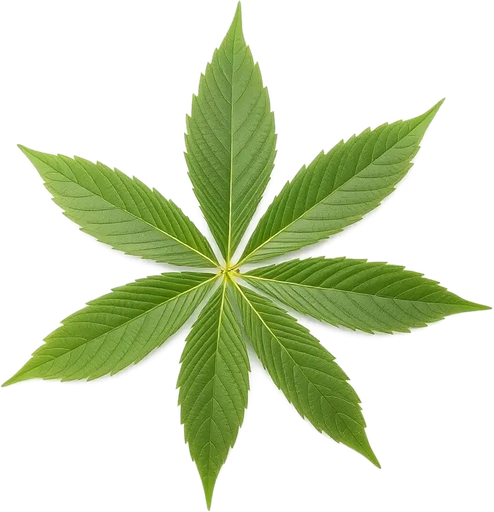
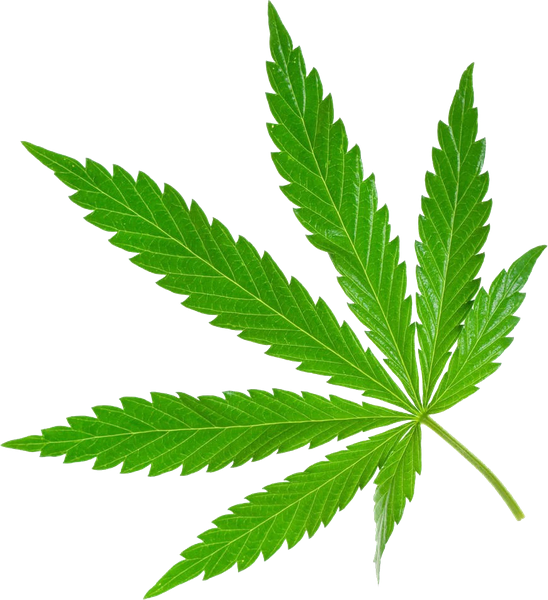
Adesivos novos: baseado, folha e kush enviados pelo Fred
O baseado agora é a foto (com brilho na brasa) em vez do desenho;
a flor gerada por IA foi trocada pela kush.

diff --git a/index.html b/index.html
@@ -290,7 +290,9 @@
     let activeTab = 'fx';
 
     /* ---------- Adesivos (gerados por IA, fundo transparente) ---------- */
-    const STICKERS = ['folha', 'flor'];
+    const STICKERS = ['folha', 'kush', 'baseado'];
+    // Pontas do baseado.png (fração da largura/altura): piteira em cima à esquerda, brasa embaixo à direita
+    const JOINT_FILTER = { x: 0.013, y: 0.013 }, JOINT_EMBER = { x: 0.977, y: 0.893 };
     const sticker = {};
     const stickersReady = Promise.all(STICKERS.map(n => new Promise(res => {
         const im = new Image();
@@ -440,6 +442,33 @@
 
     // Baseado desenhado no canvas: piteira na boca (x, y), cone de papel e brasa na ponta
     function drawJoint(ctx, x, y, len, angle) {
+        const im = sticker.baseado;
+        if (im) {
+            // Gira e escala a foto do baseado para a piteira cair em (x, y) e a brasa na direção do ângulo
+            const ax = JOINT_FILTER.x * im.width, ay = JOINT_FILTER.y * im.height;
+            const bx = JOINT_EMBER.x * im.width, by = JOINT_EMBER.y * im.height;
+            const k = len / Math.hypot(bx - ax, by - ay);
+            ctx.save();
+            ctx.translate(x, y);
+            ctx.rotate(angle - Math.atan2(by - ay, bx - ax));
+            ctx.scale(k, k);
+            ctx.shadowColor = 'rgba(0,0,0,0.35)';
+            ctx.shadowBlur = 12 / k;
+            ctx.drawImage(im, -ax, -ay);
+            ctx.restore();
+            // brilho da brasa
+            const tx = x + Math.cos(angle) * len, ty = y + Math.sin(angle) * len;
+            ctx.save();
+            ctx.globalCompositeOperation = 'lighter';
+            const g = ctx.createRadialGradient(tx, ty, 0, tx, ty, len * 0.12);
+            g.addColorStop(0, 'rgba(255, 120, 30, 0.55)');
+            g.addColorStop(1, 'rgba(255, 60, 0, 0)');
+            ctx.fillStyle = g;
+            ctx.fillRect(tx - len * 0.12, ty - len * 0.12, len * 0.24, len * 0.24);
+            ctx.restore();
+            return;
+        }
+        // Sem a imagem: desenha um baseado simples
         const t0 = len * 0.045, t1 = len * 0.085; // espessura na boca e na ponta
         ctx.save();
         ctx.translate(x, y);
@@ -553,7 +582,7 @@
     function sceneEffects(ctx, w, h, rand) {
         const base = Math.min(w, h);
         // flores e folhas espalhadas pela parte de baixo
-        const items = ['flor', 'folha', 'flor', 'folha', 'flor'];
+        const items = ['kush', 'folha', 'kush', 'folha', 'kush'];
         items.forEach((n, i) => {
             const x = (0.08 + 0.84 * ((i + rand() * 0.6) / items.length)) * w;
             const y = h * (0.72 + rand() * 0.22);
